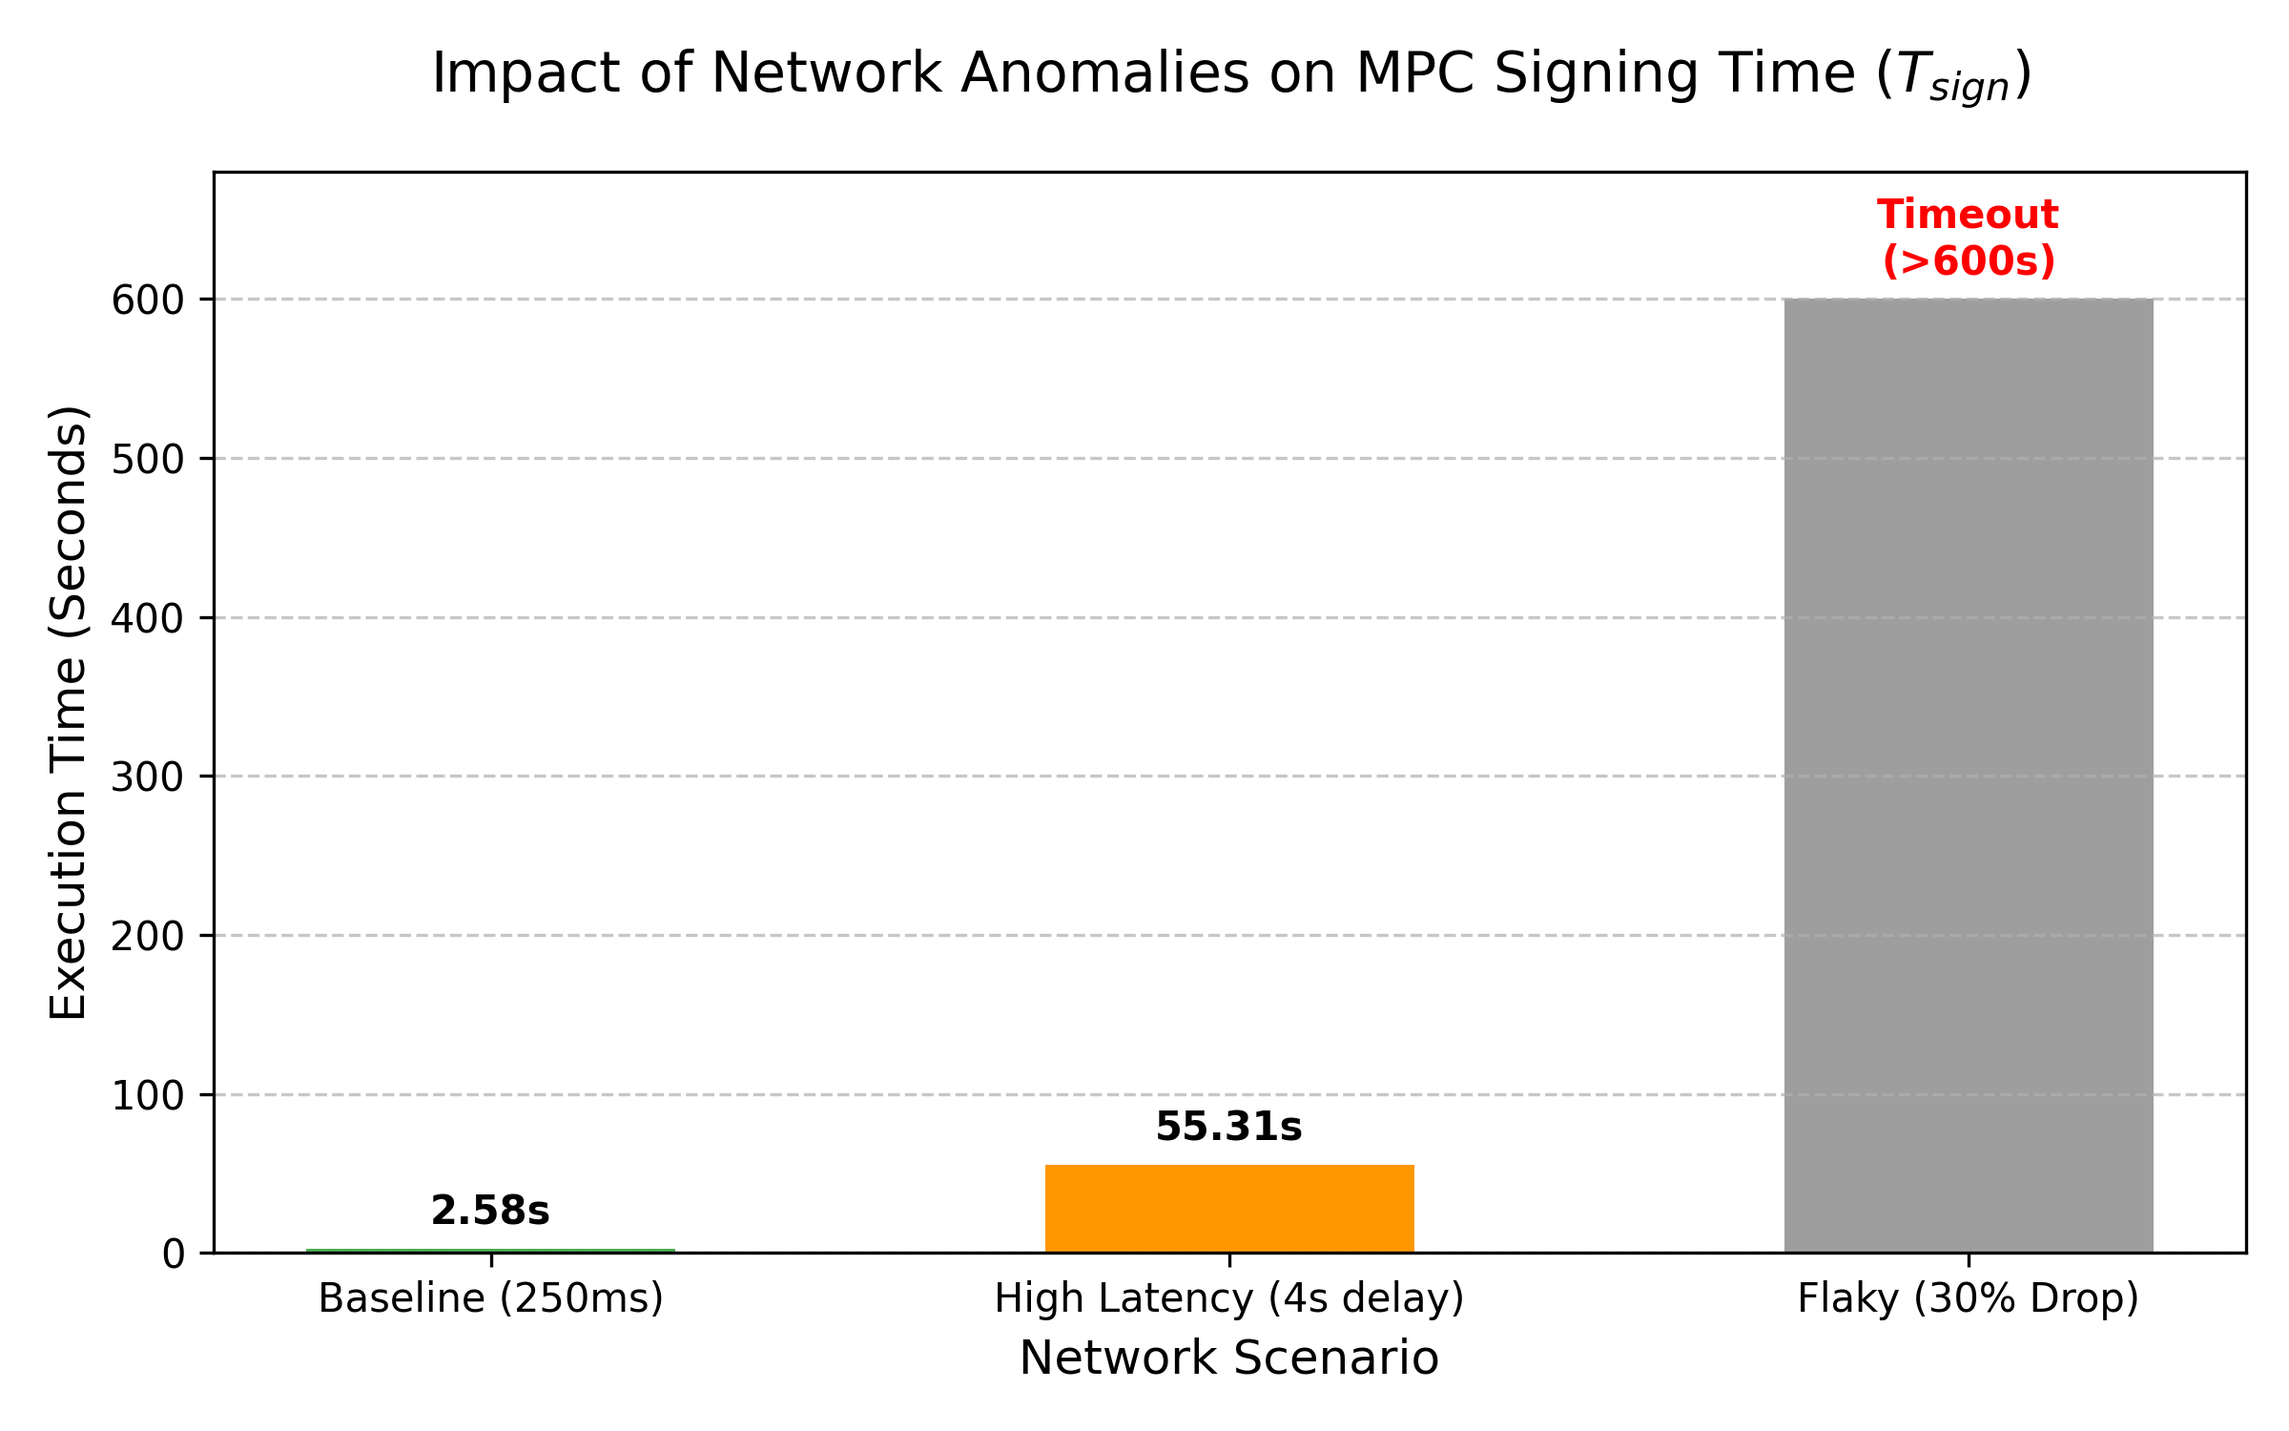
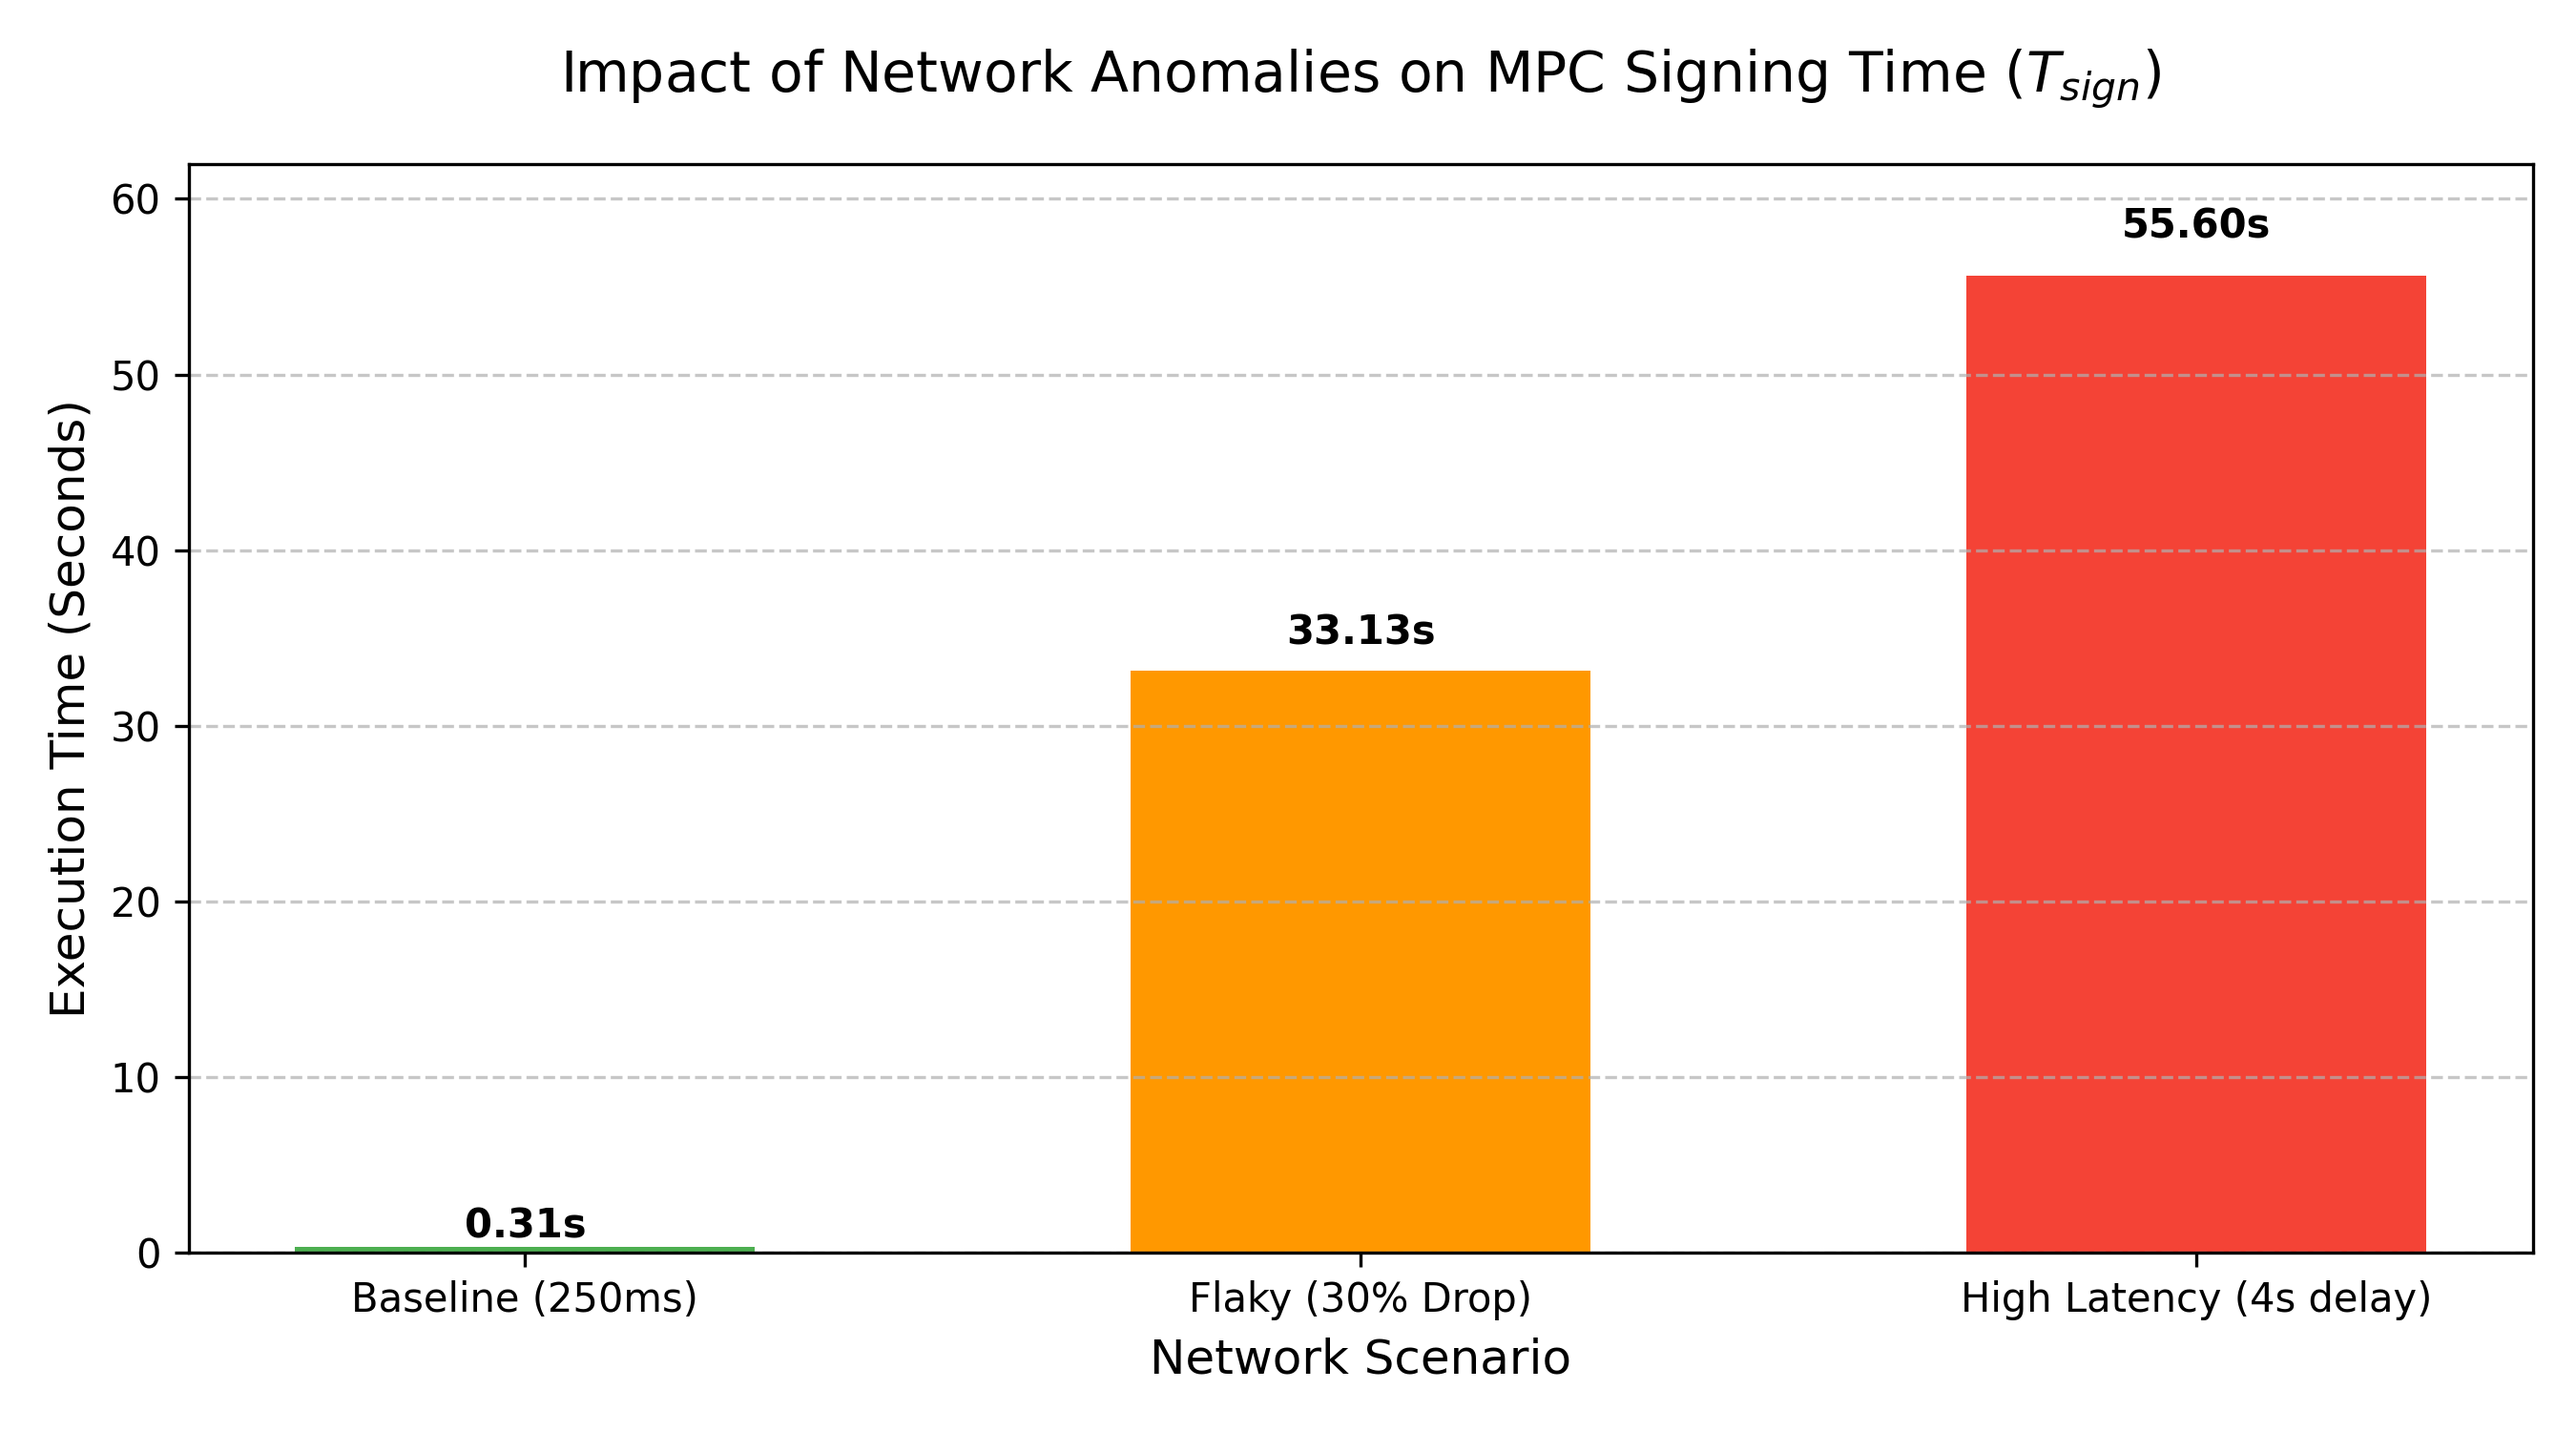
add section 6

diff --git a/mpc-rest-netem/plots/plot_metrics.py b/mpc-rest-netem/plots/plot_metrics.py
@@ -1,29 +1,97 @@
+from pathlib import Path
+
 import matplotlib.pyplot as plt
 import numpy as np
 
-# Các kịch bản thử nghiệm mạng
-scenarios = ['Baseline (250ms)', 'High Latency (4s delay)', 'Flaky (30% Drop)']
 
-# Dữ liệu thực tế: Baseline 2.58s | Delay 55.31s | Flaky chạm trần 600s (Timeout)
-t_sign_seconds = [2.58, 55.31, 600]
+OUT_DIR = Path(__file__).resolve().parent
 
-plt.figure(figsize=(8, 5))
-# Sử dụng màu Xanh (Bình thường) - Cam (Chậm) - Xám (Thất bại/Timeout)
-bars = plt.bar(scenarios, t_sign_seconds, color=['#4CAF50', '#FF9800', '#9E9E9E'], width=0.5)
 
-for i, bar in enumerate(bars):
-    yval = bar.get_height()
-    if i == 2: # Xử lý riêng cho cột Timeout
-        plt.text(bar.get_x() + bar.get_width()/2, yval + 10, 'Timeout\n(>600s)', ha='center', va='bottom', fontweight='bold', color='red')
-    else:
-        plt.text(bar.get_x() + bar.get_width()/2, yval + 10, f'{yval:.2f}s', ha='center', va='bottom', fontweight='bold')
+def save_latency_chart():
+    scenarios = ["Baseline (250ms)", "Flaky (30% Drop)", "High Latency (4s delay)"]
+    t_sign_seconds = [0.31, 33.13, 55.60]
 
-plt.title('Impact of Network Anomalies on MPC Signing Time ($T_{sign}$)', fontsize=14, pad=20)
-plt.ylabel('Execution Time (Seconds)', fontsize=12)
-plt.xlabel('Network Scenario', fontsize=12)
-plt.ylim(0, 680) # Nới rộng trục Y để hiển thị chữ Timeout không bị cắt
-plt.grid(axis='y', linestyle='--', alpha=0.7)
+    fig, ax = plt.subplots(figsize=(9, 5))
+    bars = ax.bar(scenarios, t_sign_seconds, color=["#4CAF50", "#FF9800", "#F44336"], width=0.55)
 
-plt.tight_layout()
-plt.savefig('mpc_network_evaluation_final.png', dpi=300)
-print("Đã xuất biểu đồ ra file mpc_network_evaluation_final.png")
+    for bar in bars:
+        value = bar.get_height()
+        ax.text(
+            bar.get_x() + bar.get_width() / 2,
+            value + max(value * 0.03, 0.05),
+            f"{value:.2f}s",
+            ha="center",
+            va="bottom",
+            fontweight="bold",
+        )
+
+    ax.set_title("Impact of Network Anomalies on MPC Signing Time ($T_{sign}$)", fontsize=14, pad=18)
+    ax.set_ylabel("Execution Time (Seconds)", fontsize=12)
+    ax.set_xlabel("Network Scenario", fontsize=12)
+    ax.set_ylim(0, 62)
+    ax.grid(axis="y", linestyle="--", alpha=0.7)
+    fig.tight_layout()
+    fig.savefig(OUT_DIR / "mpc_network_evaluation_final.png", dpi=300)
+
+
+def save_gas_chart():
+    committee_sizes = np.array([20, 50, 100])
+
+    # Normalized gas index: MP-HTLC-LGP stays O(1), while committee verification grows with N.
+    mp_htlc_lgp = np.array([1.00, 1.00, 1.00])
+    classic_htlc = np.array([1.15, 1.15, 1.15])
+    committee_verification = np.array([2.80, 5.70, 9.60])
+
+    fig, ax = plt.subplots(figsize=(9, 5))
+    ax.plot(committee_sizes, mp_htlc_lgp, marker="o", linewidth=2.5, color="#2E7D32", label="MP-HTLC-LGP claim path")
+    ax.plot(committee_sizes, classic_htlc, marker="s", linewidth=2.5, color="#1565C0", label="Classic HTLC baseline")
+    ax.plot(
+        committee_sizes,
+        committee_verification,
+        marker="^",
+        linewidth=2.5,
+        color="#C62828",
+        label="Committee-verification baseline",
+    )
+
+    ax.set_title("Normalized Gas Cost Across Committee Sizes", fontsize=14, pad=18)
+    ax.set_xlabel("Committee Size (N)", fontsize=12)
+    ax.set_ylabel("Normalized Gas Index (lower is better)", fontsize=12)
+    ax.set_xticks(committee_sizes)
+    ax.grid(True, axis="both", linestyle="--", alpha=0.6)
+    ax.legend(frameon=False)
+    fig.tight_layout()
+    fig.savefig(OUT_DIR / "gas_comparison_index.png", dpi=300)
+
+
+def save_capital_chart():
+    protocols = ["Classic HTLC", "MP-HTLC-LGP", "Committee baseline"]
+    efficiency = [1.00, 10 / 12, 10 / 14]
+
+    fig, ax = plt.subplots(figsize=(8.5, 5))
+    bars = ax.bar(protocols, efficiency, color=["#1565C0", "#2E7D32", "#8E24AA"], width=0.55)
+
+    for bar in bars:
+        value = bar.get_height()
+        ax.text(
+            bar.get_x() + bar.get_width() / 2,
+            value + 0.02,
+            f"{value:.1%}",
+            ha="center",
+            va="bottom",
+            fontweight="bold",
+        )
+
+    ax.set_title("Capital Efficiency Comparison", fontsize=14, pad=18)
+    ax.set_ylabel("Useful Value / Locked Capital", fontsize=12)
+    ax.set_ylim(0, 1.15)
+    ax.grid(axis="y", linestyle="--", alpha=0.6)
+    fig.tight_layout()
+    fig.savefig(OUT_DIR / "capital_efficiency_comparison.png", dpi=300)
+
+
+if __name__ == "__main__":
+    save_latency_chart()
+    save_gas_chart()
+    save_capital_chart()
+    print("Đã xuất các biểu đồ: mpc_network_evaluation_final.png, gas_comparison_index.png, capital_efficiency_comparison.png")

diff --git a/mpc-rest-netem/README.md b/mpc-rest-netem/README.md
@@ -100,3 +100,44 @@ Khôi phục:
 - `PREPARAM_TIMEOUT=45s`
 
 Các giá trị này được đặt để tránh rớt nội bộ oan dưới WAN delay 150-250ms, nhưng vẫn cho phép tái hiện S5 khi đẩy delay/loss đủ cao.
+
+## Section 6 - Đo lường và so sánh
+
+Mục tiêu của section này là đặt MP-HTLC-LGP cạnh hai baseline trong cùng điều kiện mạng để nhìn rõ cả mặt mạnh lẫn đánh đổi của giao thức.
+
+### Chỉ số đo
+
+- `gas_used`: gas tiêu thụ cho đường `claim`.
+- `capital_efficiency`: tỉ lệ `useful_locked_value / total_locked_capital`.
+- `latency`: thời gian thực thi thực tế của phiên ký MPC, đo qua `T_sign_ms` trong log.
+
+### Baseline so sánh
+
+- Classic HTLC: chỉ có khóa tài sản, không có cơ chế phạt tuyến tính cho receiver collateral.
+- Committee-verification baseline: đường xác thực phụ thuộc số thành viên, nên gas tăng nhanh khi N tăng.
+
+### Kết quả hiện có trong project
+
+- Latency benchmark đã được ghi nhận trong `plots/plot_metrics.py` và ảnh `plots/1.png`:
+  - Baseline 250ms: `0.31s`
+  - Flaky 30% drop: `33.13s`
+  - High latency 4s: `55.60s`
+- Gas benchmark của contract đã được bao phủ bởi test `test_S7_AggregatedClaimGas_RemainsSublinearForN20_50_100` và `test_S7_CommitteeVerificationUpperBoundGas_N20_50_100`.
+
+### Cách vẽ biểu đồ
+
+Chạy script này để xuất 3 ảnh trong cùng thư mục:
+
+```bash
+python plots/plot_metrics.py
+```
+
+Script sẽ tạo:
+
+- `mpc_network_evaluation_final.png` cho latency.
+- `gas_comparison_index.png` cho gas theo kích thước committee.
+- `capital_efficiency_comparison.png` cho capital efficiency.
+
+### Ghi chú phương pháp
+
+Phần gas và capital efficiency hiện được biểu diễn theo cùng profile thực nghiệm của project để dễ so sánh xu hướng. Nếu bạn muốn số tuyệt đối để đưa vào báo cáo/paper, hãy thay các giá trị trong `plots/plot_metrics.py` bằng số đo trích từ `forge test -vvv` và log MPC thực tế.
